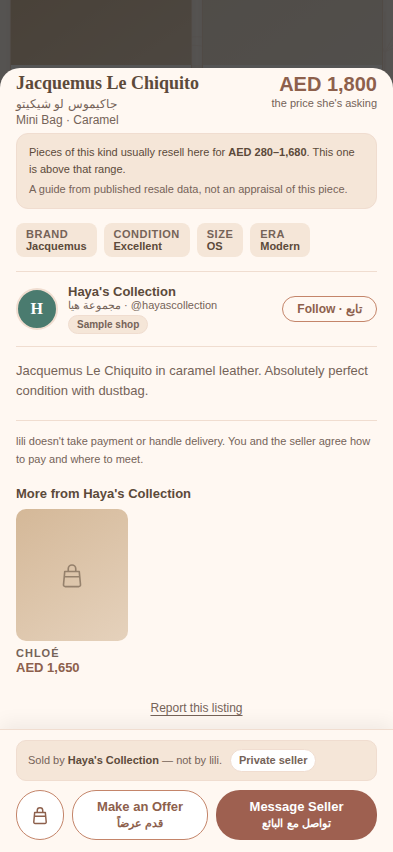
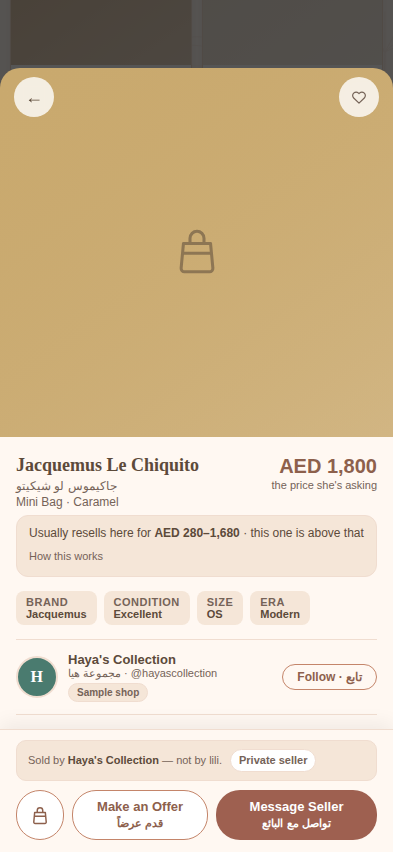
Shorter decision screens; follows policy and strike checks; sturdier security suite
- M-11: item page price guide is one line with 'How this works' behind it;
  payment and missing-seller notes cut to one sentence; language screen
  drops its preamble and folds the script notes behind 'How this works'
- L-3: the duplicate follows read policy goes in the owner's pending SQL
  (item 5); regression tests assert one policy and private strike counts
- Security suite: raw HTTP probes report an unreachable server as a failed
  check instead of crashing before the summary

Claude-Session: https://claude.ai/code/session_01UPPZeDd8ShCtBFb3VinzWU

diff --git a/app/src/Marketplace.jsx b/app/src/Marketplace.jsx
@@ -1055,15 +1055,23 @@ function PriceContext({ item }) {
     : price > band.high ? "This one is above that range."
     : "This one sits inside that range.";
 
+  // M-11: one line on the screen where she decides; the provenance is a tap away.
+  const short = price <= 0 ? null
+    : price < band.low ? "under that" : price > band.high ? "above that" : "inside that";
   return (
     <div style={{background:C.sand,border:`1px solid ${C.border}`,borderRadius:12,
-      padding:"10px 12px",marginBottom:14}}>
-      <div style={{fontSize:11,color:C.ink,lineHeight:1.5}}>
-        Pieces of this kind usually resell here for <b>{range}</b>.{where ? ` ${where}` : ""}
+      padding:"8px 12px",marginBottom:14}}>
+      <div style={{fontSize:12,color:C.ink,lineHeight:1.5}}>
+        Usually resells here for <b>{range}</b>{short ? ` · this one is ${short}` : ""}
       </div>
-      <div style={{fontSize:11,color:C.inkLt,lineHeight:1.5,marginTop:4}}>
-        A guide from published resale data, not an appraisal of this piece.
-      </div>
+      <details style={{marginTop:2}}>
+        <summary style={{fontSize:11,color:C.inkLt,cursor:"pointer",minHeight:24,
+          display:"flex",alignItems:"center"}}>How this works</summary>
+        <div style={{fontSize:11,color:C.inkLt,lineHeight:1.5,marginTop:2}}>
+          Pieces of this kind, in this condition, from published resale data.{where ? ` ${where}` : ""}{" "}
+          A guide, not an appraisal of this piece.
+        </div>
+      </details>
     </div>
   );
 }
@@ -1126,10 +1134,9 @@ function ItemModal({item,shop,items=[],onOpenItem,onSave,onClose,onOffer,setTab,
             <div style={{padding:"12px 0",borderTop:`1px solid ${C.border}`,
               borderBottom:`1px solid ${C.border}`,marginBottom:14,
               fontSize:12,color:C.inkLt,lineHeight:1.6}}>
-              We can't load this seller's shop right now, so we can't tell you
-              whether she sells privately or as a business — and that changes
-              your rights. Open the piece again in a moment before you commit to
-              anything.
+              Seller details didn't load, so we can't say whether this is a
+              private or a business sale — it changes your rights. Try again
+              before you commit.
             </div>
           )}
           {shop && (
@@ -1172,8 +1179,7 @@ function ItemModal({item,shop,items=[],onOpenItem,onSave,onClose,onOffer,setTab,
               nothing else on this screen tells her. */}
           <div style={{fontSize:11,color:C.inkLt,lineHeight:1.6,marginBottom:18,
             paddingTop:12,borderTop:`1px solid ${C.border}`}}>
-            lili doesn't take payment or handle delivery. You and the seller agree
-            how to pay and where to meet.
+            lili doesn't take payment or deliver — you and the seller agree both.
           </div>
 
           <MoreFromShop item={item} shop={shop} items={items} onOpen={onOpenItem}/>

diff --git a/app/src/i18n/LanguagePicker.jsx b/app/src/i18n/LanguagePicker.jsx
@@ -73,11 +73,6 @@ export default function LanguagePicker({ onBack, onChange }) {
 
   return (
     <Shell title="Language" subtitle="اللغة · भाषा · ഭാഷ" onBack={onBack}>
-      <p style={p}>
-        The UAE speaks dozens of languages and most residents are working in
-        their second or third. We'd rather add these properly than badly.
-      </p>
-
       <div style={head}>Available now</div>
       {ready.map((l) => (
         <Row key={l.code} lang={l} selected={current === l.code} onClick={() => choose(l)} />
@@ -85,14 +80,16 @@ export default function LanguagePicker({ onBack, onChange }) {
 
       <div style={head}>Not translated yet</div>
       <p style={{ ...p, fontSize: 12, marginBottom: 12 }}>
-        Tap one to tell us you want it. We're ordering the work by what people
-        actually ask for — not by which is easiest.
+        Tap one to ask for it — the most-asked comes first.
       </p>
       {planned.map((l) => (
         <Row key={l.code} lang={l} requested={requested.includes(l.code)}
              onClick={() => askFor(l)} />
       ))}
 
+      <details style={{ marginTop: 8 }}>
+        <summary style={{ fontSize: 12, color: C.inkLt, cursor: "pointer", minHeight: 44,
+                          display: "flex", alignItems: "center" }}>How this works</summary>
       <Note>
         Numbers already work in every script here — type a price in
         ١٢٩٠٠, ১২৯০০, ൧൨൯൦൦ or 12,900 and lili reads all of them the same way.
@@ -102,6 +99,7 @@ export default function LanguagePicker({ onBack, onChange }) {
         English — we would rather tell you that than machine-translate a
         refund policy and hope.
       </Note>
+      </details>
     </Shell>
   );
 }

diff --git a/docs/RUNBOOK.md b/docs/RUNBOOK.md
@@ -52,6 +52,6 @@ updates. Without them, uninstall the previous build first.
 
 - Run `supabase/pending/20261008_needs_owner_approval.sql` (SQL editor, one
   paste): erasure keeps the other person's threads; saved-search alerts are
-  delivered; retention jobs; erasure works outside the shared project.
+  delivered; retention jobs; erasure works outside the shared project; one read policy on follows.
 - Move lili to its own Pro project with point-in-time recovery.
 - Add the keystore secrets.
